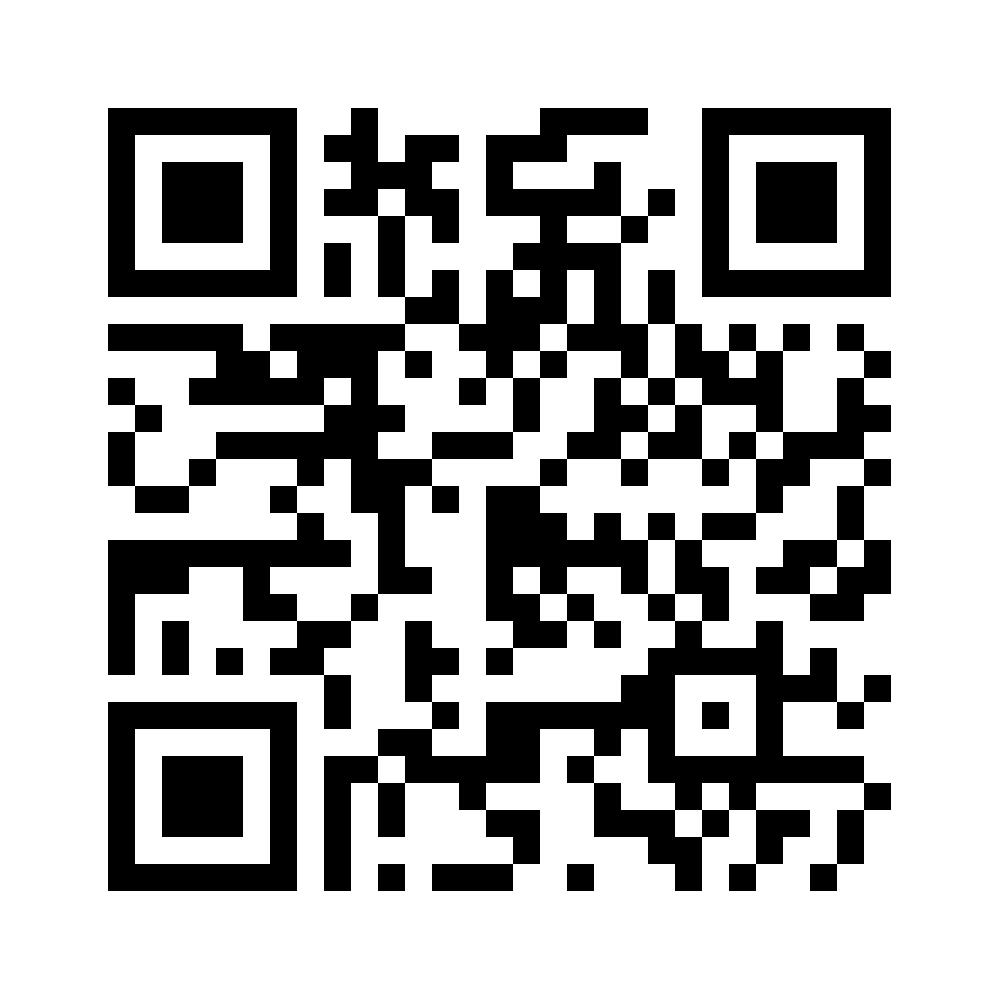
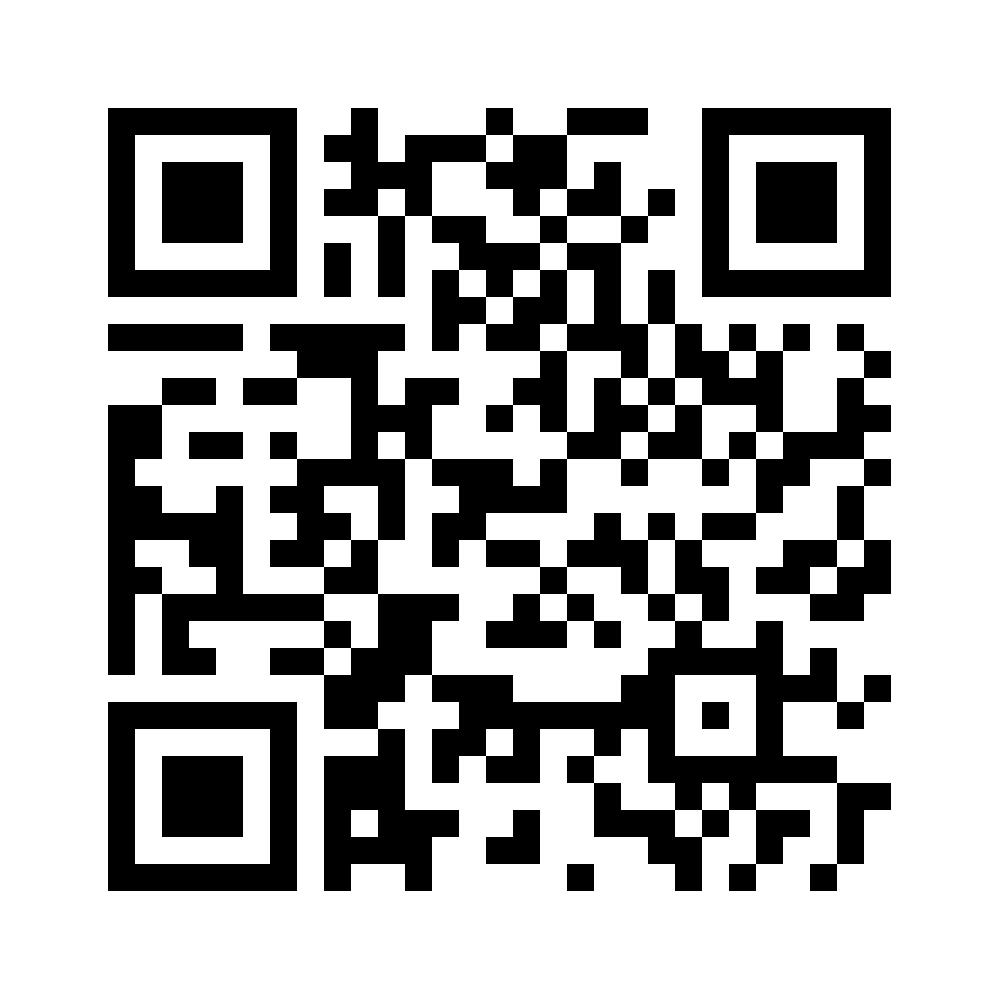
can now store data in database for ever and ever and ever.

Changed region(s): [[0.093, 0.093, 0.589, 0.899], [0.837, 0.744, 0.868, 0.837]]

diff --git a/src/main/java/org/tahomarobotics/scouting/scoutingserver/util/DataHandler.java b/src/main/java/org/tahomarobotics/scouting/scoutingserver/util/DataHandler.java
@@ -2,16 +2,17 @@ package org.tahomarobotics.scouting.scoutingserver.util;
 
 import com.google.zxing.NotFoundException;
 
-import java.io.File;
-import java.io.IOException;
+import java.io.*;
 import java.sql.*;
 import java.util.ArrayList;
 import java.util.Objects;
+import java.util.Vector;
 
 public class DataHandler {
 
     private final static ArrayList<MatchRecord> qrData = new ArrayList<>();
 
+    //untested, not used
     public void setUPConnection() throws ClassNotFoundException, SQLException {
         String url = "jdbc:mysql://localhost:3306/table_name"; // table details
         String username = "rootgfg"; // MySQL credentials
@@ -31,62 +32,78 @@ public class DataHandler {
         System.out.println("Connection Closed....");
     }
 
-    public static void storeRawQRData(String dataRaw) {
-        qrData.add(contstrucMatchRecord(dataRaw));
 
-        //have now added a new record to the array
-        //TODO make it so the data is also added to the sql database
-    }
+    public static void storeRawQRData(long timestamp, String dataRaw) throws IOException {
+        //adds the data to ram
+        qrData.add(contstrucMatchRecord(timestamp, dataRaw));
 
-    private static MatchRecord contstrucMatchRecord(String qrRAW) {
-        String[] data = qrRAW.split(Constants.QR_DATA_DELIMITER);
-        MatchRecord m = new MatchRecord(Integer.parseInt(data[0]),
-                Integer.parseInt(data[1]),
-                getRobotPositionFromNum(Integer.parseInt(data[2])),
-                Integer.parseInt(data[3]),
-                Integer.parseInt(data[4]),
-                Integer.parseInt(data[5]),
-                Integer.parseInt(data[6]),
-                Integer.parseInt(data[7]),
-                getEngamePositionFromNum(Integer.parseInt(data[8])),
-                (Objects.equals(data[9], "1")),
-                data[10] ,
-                data[11]);
-        return m;
+        //creates new database if there is none already and then writed the data to it
+        File data = new File(Constants.DATABASE_FILEPATH);
+        if (!data.exists()) {
+            data.createNewFile();
+        }
+            FileWriter fw = new FileWriter(data, true);
+            BufferedWriter writer = new BufferedWriter(fw);
+            writer.write(timestamp + Constants.STORED_DATA_DELIMITER + dataRaw);
+            writer.newLine();
+            writer.close();
+
+
     }
 
 
+    private static MatchRecord contstrucMatchRecord(long timestamp, String qrRAW) {
+        try {
+            String[] data = qrRAW.split(Constants.QR_DATA_DELIMITER);
+            MatchRecord m = new MatchRecord(timestamp, Integer.parseInt(data[0]),
+                    Integer.parseInt(data[1]),
+                    getRobotPositionFromNum(Integer.parseInt(data[2])),
+                    Integer.parseInt(data[3]),
+                    Integer.parseInt(data[4]),
+                    Integer.parseInt(data[5]),
+                    Integer.parseInt(data[6]),
+                    Integer.parseInt(data[7]),
+                    getEngamePositionFromNum(Integer.parseInt(data[8])),
+                    (Objects.equals(data[9], "1")),
+                    data[10] ,
+                    data[11]);
+            return m;
+        }catch (NumberFormatException e) {
+            System.err.println("Failed to construct MatchRecord, likly corruppted Data");
+            throw new RuntimeException(e);
+        }
 
-    public static ArrayList<MatchRecord> getCachedQRData() {
+    }
+
+
+
+    public static ArrayList<MatchRecord> getCachedQRData() throws IOException {
         ArrayList<MatchRecord> output = new ArrayList<>();
         ArrayList<String> qrRaws= new ArrayList<>();
-        File dir = new File(Constants.IMAGE_DATA_FILEPATH);
-        File[] directoryListing = dir.listFiles();
-        if (directoryListing != null) {
-            for (File child : directoryListing) {
-                try {
-                    qrRaws.add(QRCodeUtil.readQRCode(child.getCanonicalPath()));
-                } catch (IOException e) {
-
-                    e.printStackTrace();
-                    System.err.println("Failed to read some random cached qr code...");
-                } catch (NotFoundException e) {
-                    //was unable to read data from this file. Therefore it is useless and will be deleted
-                    if (!child.delete()) {
-                        child.deleteOnExit();
-                    }
+        File database = new File(Constants.DATABASE_FILEPATH);
+        if (database.exists()) {
+            FileReader reader = new FileReader(database);
+            BufferedReader bufferedReader = new BufferedReader(reader);
+            long beginTime = System.currentTimeMillis();
+            while (true) {
+                String line = bufferedReader.readLine();
+                if ((line == null) || (line == "")) {
+                    break;
+                }else if ((beginTime + 1000) < System.currentTimeMillis()) {
+                    //break after one second of reading data
+                    System.out.println("Reading Database Timeout");
+                    break;
                 }
+                String[] dataTokens = line.split(Constants.STORED_DATA_DELIMITER);
+                output.add(contstrucMatchRecord(Long.parseLong(dataTokens[0]), dataTokens[1]));
             }
-
-            for (String s : qrRaws) {
-                output.add(contstrucMatchRecord(s));
-            }
-
+        return output;
+        }else {
+            //then the database does not exist, return nothing
+            System.out.println("Database not found, returning nothing");
             return output;
-        } else {
-            //there were not qr codes, return empty array.
-            return output;
-        }
+        }//end if database exists
+
 
     }
 
@@ -198,7 +215,8 @@ public class DataHandler {
         }
     }
 
-    public record MatchRecord(int matchNumber,
+    public record MatchRecord(long timestamp,
+                              int matchNumber,
                               int teamNumber,
                               RobotPosition position,
                               int autoSpeaker,

diff --git a/src/main/java/org/tahomarobotics/scouting/scoutingserver/MainController.java b/src/main/java/org/tahomarobotics/scouting/scoutingserver/MainController.java
@@ -21,13 +21,12 @@ public class MainController extends VBox {
 
     public void debugggy(ActionEvent event) {
        System.out.println("Debug button pressed");
-        System.out.println("Locally Cached QR Data: " + DataHandler.getCachedQRData());
+
         try {
-            QRCodeUtil.createQRCode("5,2046,1,2,1,7,0,1,3,0,2046Rah!,theseAreTEleNotes", "C:\\Users\\Caleb\\IdeaProjects\\ScoutingServer\\src\\main\\resources\\org\\tahomarobotics\\scouting\\scoutingserver\\generatedQRCode.jpg", null,1000,1000);
-            System.out.println("Successfullly created ");
-        } catch (WriterException e) {
-            throw new RuntimeException(e);
-        } catch (IOException e) {
+            System.out.println("Locally Cached QR Data: " + DataHandler.getCachedQRData());
+            QRCodeUtil.createQRCode("5,2046,1,2,1,7,0,1,3,0,2046Rah!,code3", "C:\\Users\\Caleb\\IdeaProjects\\ScoutingServer\\src\\main\\resources\\org\\tahomarobotics\\scouting\\scoutingserver\\generatedQRCode.jpg", null,1000,1000);
+            System.out.println("Successfullly created qrcode for funsies");
+        } catch (WriterException | IOException e) {
             throw new RuntimeException(e);
         }
         System.out.println("QR data Cached in RAM" + DataHandler.getMatchData());

diff --git a/src/main/java/org/tahomarobotics/scouting/scoutingserver/QRScannerController.java b/src/main/java/org/tahomarobotics/scouting/scoutingserver/QRScannerController.java
@@ -92,11 +92,17 @@ public class QRScannerController  {
         } catch (IOException e) {
             throw new RuntimeException(e);
         } catch (NotFoundException e) {
-            qrData = "";
+            System.out.println("Failed to read QR Code");
+            return;
         }
-        System.out.println("Scanner QR Code: " + qrData);
-        DataHandler.storeRawQRData(qrData);
-        System.out.println("Record Created: " + DataHandler.getMatchData().get(DataHandler.getMatchData().size() - 1));
+
+        try {
+            System.out.println("Scanner QR Code: " + qrData);
+            DataHandler.storeRawQRData(System.currentTimeMillis() , qrData);
+            System.out.println("Record Created: " + DataHandler.getMatchData().get(DataHandler.getMatchData().size() - 1));
+        } catch (IOException e) {
+            throw new RuntimeException(e);
+        }
 
 
     }

diff --git a/src/main/java/org/tahomarobotics/scouting/scoutingserver/util/Constants.java b/src/main/java/org/tahomarobotics/scouting/scoutingserver/util/Constants.java
@@ -3,7 +3,9 @@ package org.tahomarobotics.scouting.scoutingserver.util;
 public class Constants {
     //qr codes images are cached in this folder. Filenames are the timestamp they were created and file extensions are .bmp
[1 lines of base64/hex data omitted]
+    public static final String DATABASE_FILEPATH = "src/main/resources/org/tahomarobotics/scouting/scoutingserver/database/jankDatabase.txt";
 
+    public static final String QR_DATA_DELIMITER = ",";
 
-    public static final String QR_DATA_DELIMITER = "/";
+    public static final String STORED_DATA_DELIMITER= "@";
 }
